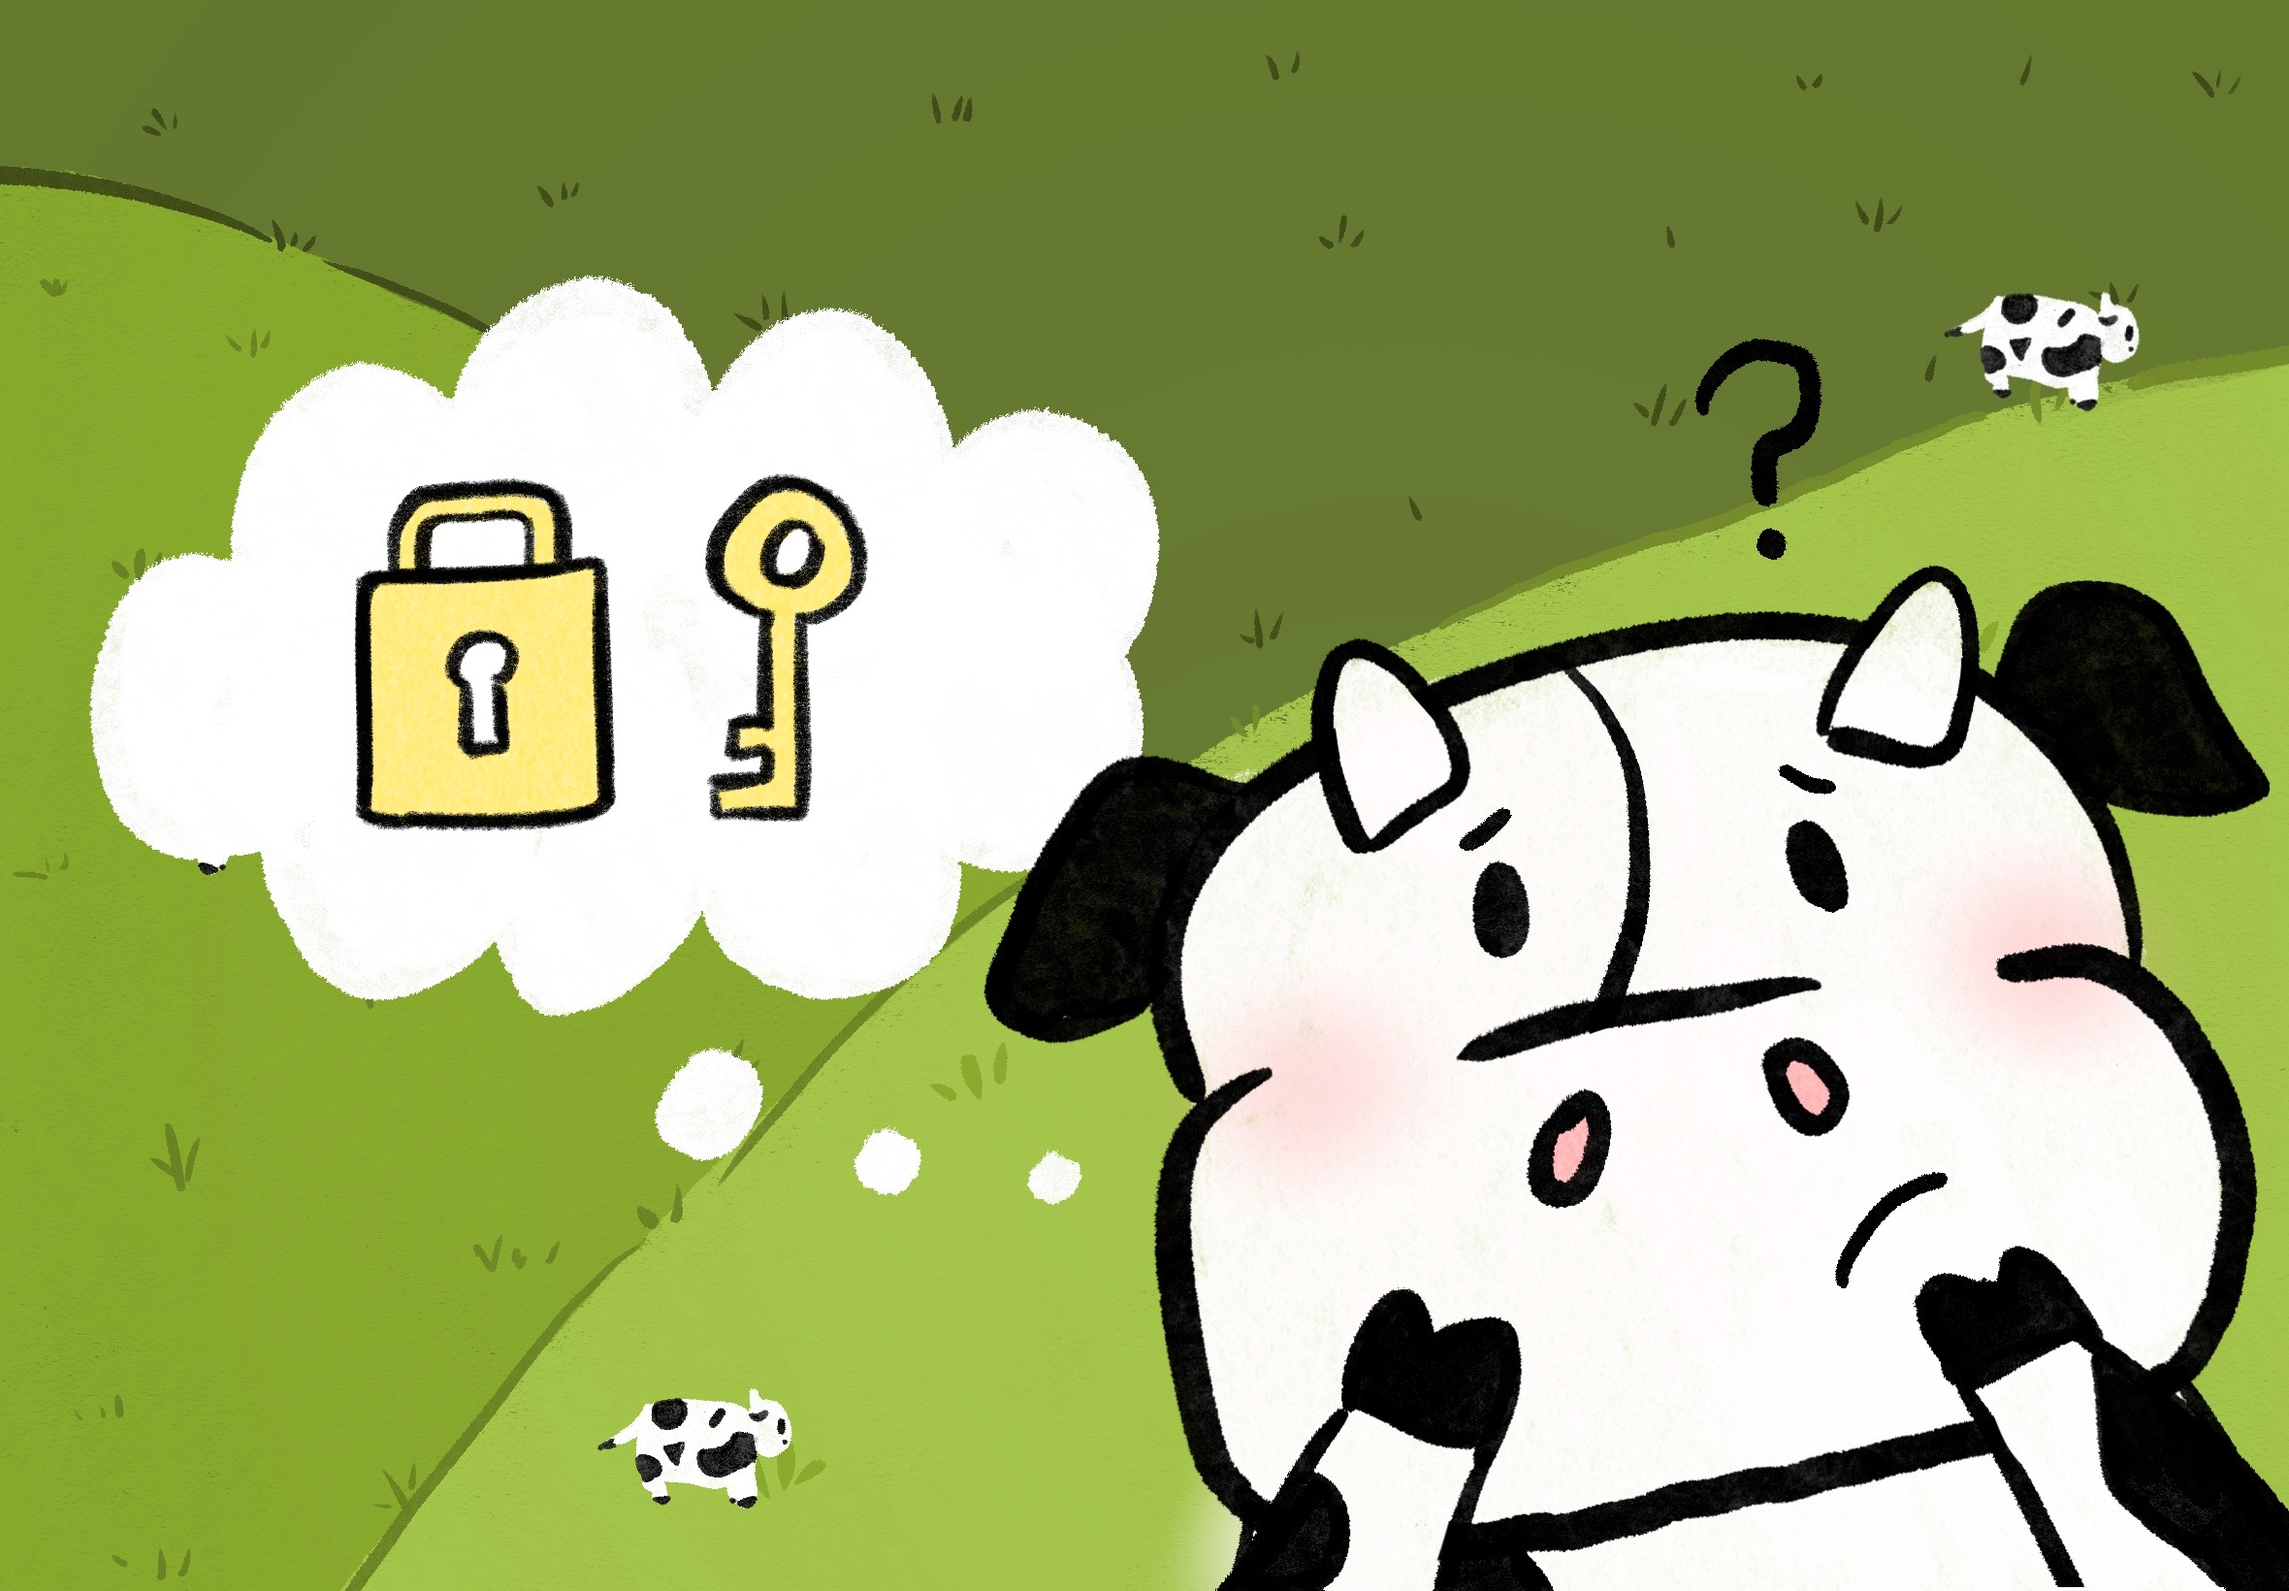
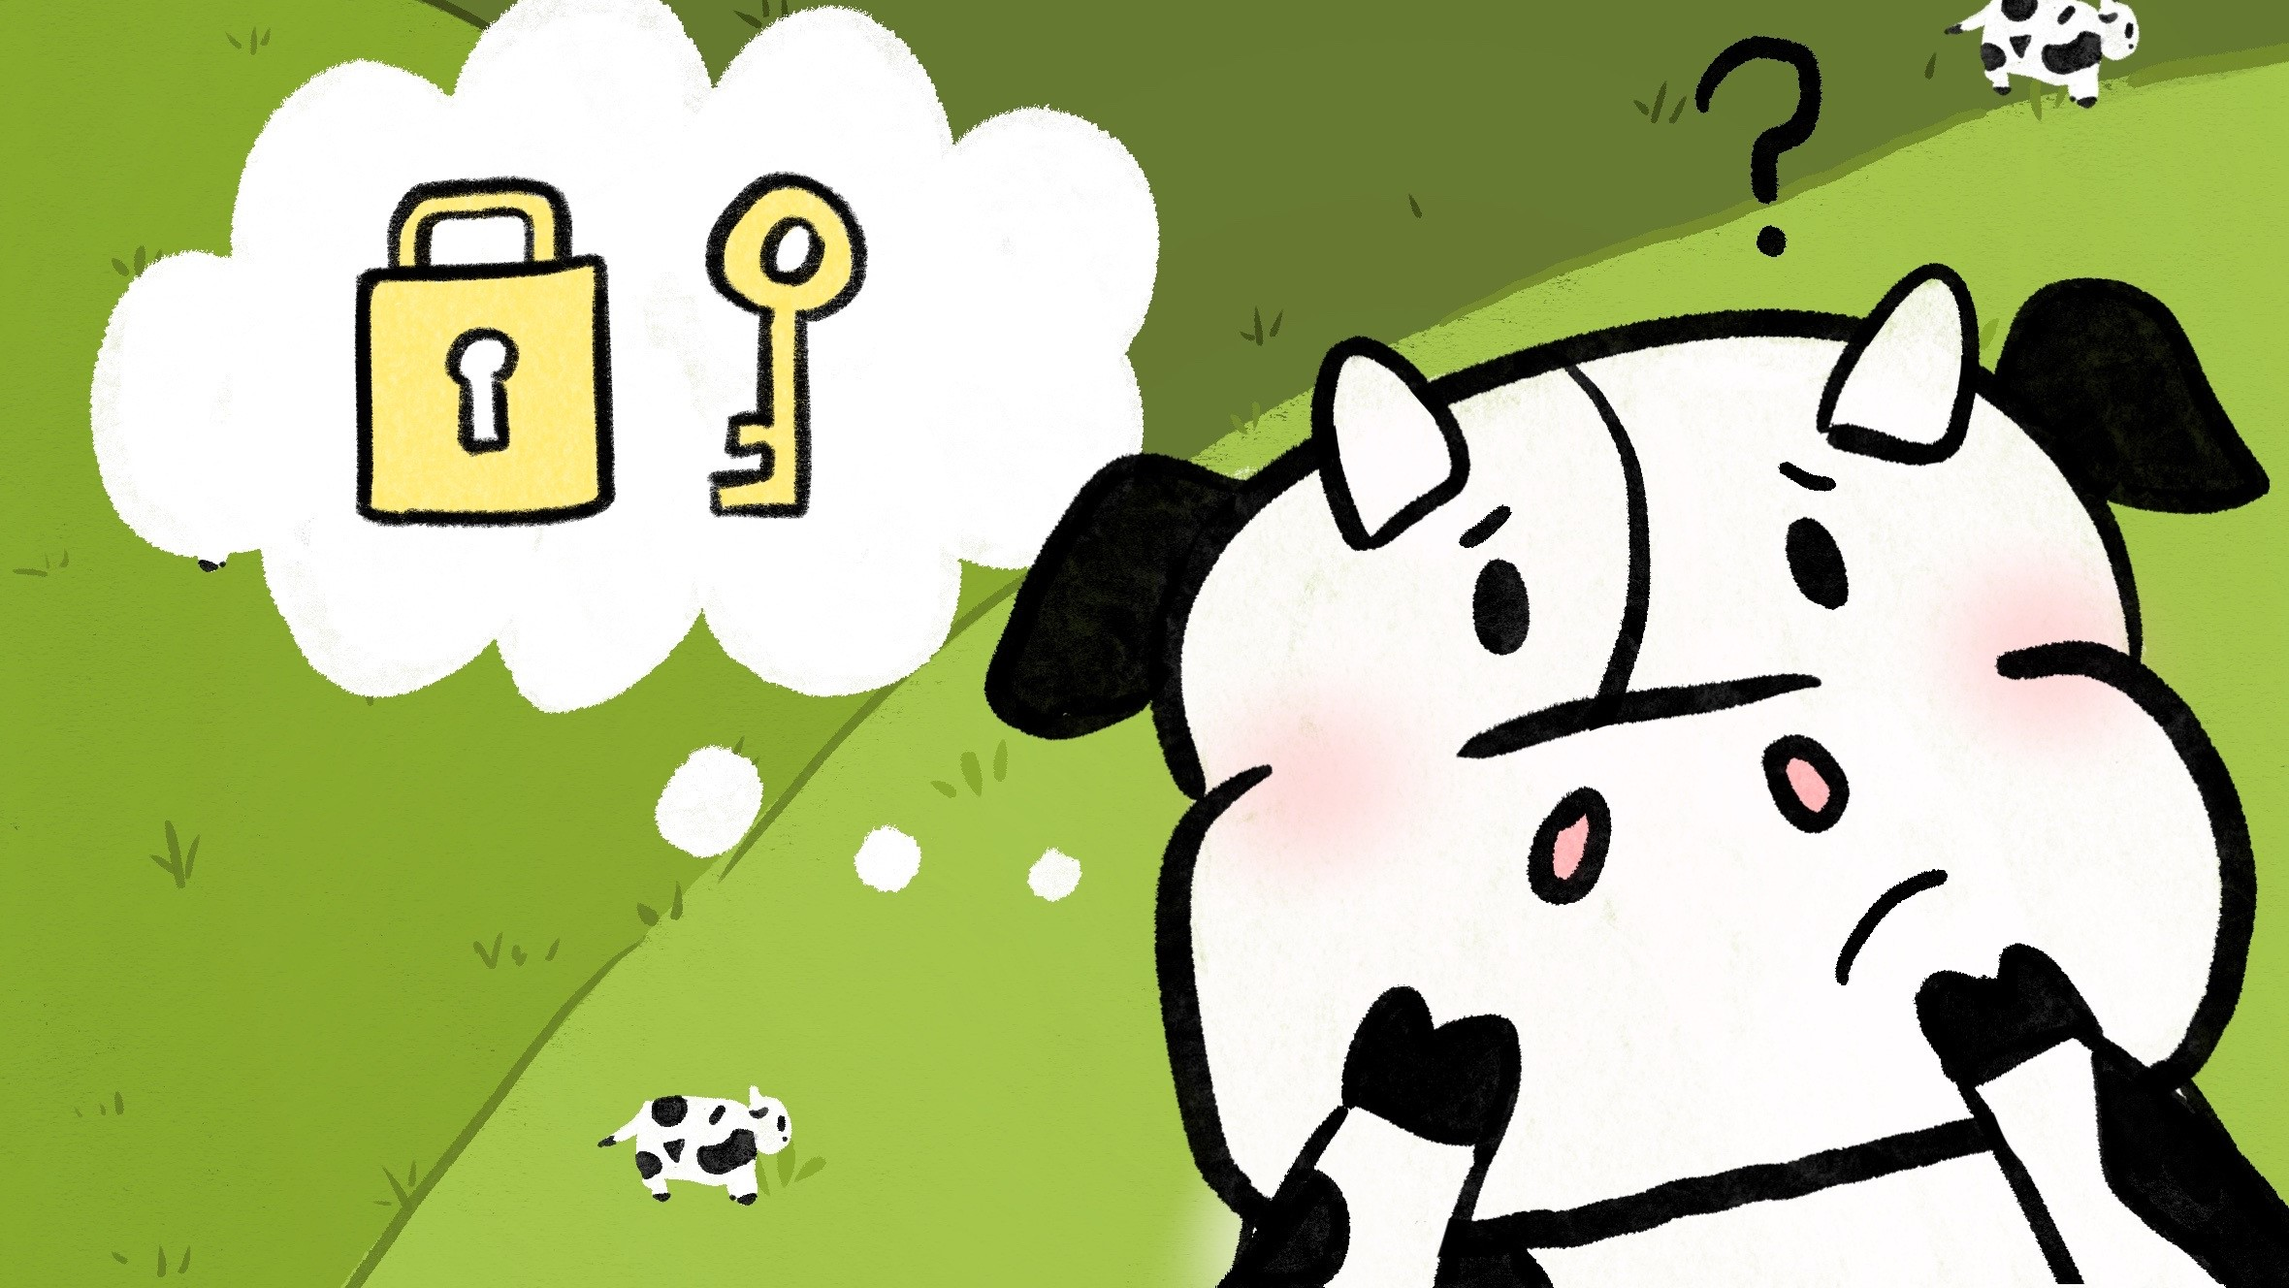
feat : 註冊ui完善

diff --git a/frontend/src/views/LoginPage.vue b/frontend/src/views/LoginPage.vue
@@ -1,86 +1,84 @@
 <template>
-  <!-- 固定定位的 header，確保圖片維持在最上方 -->
-  <header>
-    <img v-if="!doingPw" src="../images/login.jpg"/>
-    <img v-else  src="../images/password.jpg" />
-  </header>
+  <div class="h-full flex flex-col overflow-hidden"> <!-- 使用 Flexbox 布局 -->
+    <header class=" basis-3/12 overflow-auto"> <!-- 固定高度的 header -->
+      <img v-if="!doingPw" src="../images/login.jpg" class="w-full object-cover" />
+      <img v-else src="../images/password.jpg" class="w-full object-cover" />
+    </header>
 
-  <body class="h-screen overflow-y-auto relative">
-    
-    <form class="flex flex-col justify-center mt-5 text-center">
-    <label class="text-4xl font-bold">Login</label>
-    <div class="flex items-center border-2 rounded-md px-3 ml-10 mr-10 shadow-md mt-4">
-      <PhUser :size="32" color="#4d4d4d" />
-      <input v-model="user.account" class="flex-1 p-3 focus:outline-none" type="text" placeholder="帳號" />
-    </div>
-
-      <!-- 密碼輸入框 -->
-    <div class="flex items-center border-2 rounded-md px-3 ml-10 mr-10 shadow-md mt-4">
-      <PhLockKey :size="32" color="#4d4d4d" />
-      <input
-        v-model="password"  
-        @focus="doingPw = true"  
-        @blur="doingPw = false"
-        class="flex-1 p-3 focus:outline-none "
-        :type="showPassword ? 'text' : 'password'"
-        placeholder="密碼"
-      />
-      <PhEyeClosed v-if="!showPassword" @click="togglePassword" :size="32" color="#4d4d4d" />
-      <PhEye v-else @click="togglePassword" :size="32" />
-    </div>
-
-      <div class="mt-5">
-        <label class="flex items-center">
-          <input  type="checkbox" class="mr-2 ml-10 font-H3-regular border-#5A8700 text-#5A8700" /> 保持登入
-        </label>
-      </div>
-
-      <div class="mt-5 mx-10">
-        <button @click="loginHandler(user)" class="w-full bg-[#90c700] text-white font-bold text-2xl py-3 rounded shadow-md" type="button">
-          登入
-        </button>
-      </div>
-
-      <div class="mt-5">
-        <router-link to="/forgot-password" class="text-[#90c700] underline hover:text-[#7ab600]">
-          忘記密碼？
-        </router-link>
-      </div>
-
-      <div class="mt-20">
-        <div class="flex flex-col items-center">
-          <label>其他登入方式</label>
-          <div class="flex justify-center space-x-4 mt-4">
-            <button @click="loginWithGoogle"
-              class="w-12 h-12 rounded-full flex justify-center items-center shadow bg-[#92c700]">
-              <PhGoogleLogo :size="32" color="#fff" />
-            </button>
-            <button @click="loginWithFacebook"
-              class="w-12 h-12 rounded-full flex justify-center items-center shadow bg-[#92c700]">
-              <PhFacebookLogo :size="32" color="#fff" />
-            </button>
-          </div>
+    <main class="flex-grow flex items-center justify-center"> <!-- Flexbox 居中表单 -->
+      <form class="flex flex-col justify-center text-center w-full max-w-sm"> <!-- 限制最大宽度 -->
+        <label class="text-4xl font-bold my-3">Login</label>
+        <div class="flex items-center border-2 rounded-md px-3 my-3 ml-10 mr-10 shadow-md">
+          <PhUser :size="32" color="#4d4d4d" />
+          <input v-model="user.account" class="flex-1 p-3 focus:outline-none" type="text" placeholder="帳號" />
         </div>
 
-        <div class="flex items-center mt-5">
-          <div class="flex-1 border-t"></div>
-          <span class="mx-3">or</span>
-          <div class="flex-1 border-t"></div>
+        <!-- 密碼輸入框 -->
+        <div class="flex items-center border-2 rounded-md px-3 ml-10 my-3 mr-10 shadow-md">
+          <PhLockKey :size="32" color="#4d4d4d" />
+          <input v-model="password" @focus="doingPw = true" @blur="doingPw = false"
+            class="flex-1 p-3 focus:outline-none" :type="showPassword ? 'text' : 'password'" placeholder="密碼" />
+          <PhEyeClosed v-if="!showPassword" @click="togglePassword" :size="32" color="#4d4d4d" />
+          <PhEye v-else @click="togglePassword" :size="32" />
+        </div>
+
+        <div class="mt-5 mx-10 flex items-center">
+          <PhSquare v-if="!check" @click="checklogin" :size="20" />
+          <PhCheckSquare v-else @click="checklogin" :size="20" />
+          <span class="ml-2">保持登入</span>
+        </div>
+
+        <div class="mt-5 mx-10">
+          <button @click="loginHandler(user)"
+            class="w-full bg-[#90c700] text-white font-bold text-2xl py-3 rounded shadow-md" type="button">
+            登入
+          </button>
         </div>
 
         <div class="mt-5">
-          <router-link to="/register" class="text-[#90c700] underline hover:text-[#7ab600]">
-            創建帳號
+          <router-link to="/forgot-password" class="text-[#90c700] underline hover:text-[#7ab600]">
+            忘記密碼？
           </router-link>
         </div>
-      </div>
-    </form>
-  </body>
+
+        <div class="mt-20">
+          <div class="flex flex-col items-center">
+            <label>其他登入方式</label>
+            <div class="flex justify-center space-x-4 mt-4">
+              <button @click="loginWithGoogle"
+                class="w-12 h-12 rounded-full flex justify-center items-center shadow bg-[#92c700]">
+                <PhGoogleLogo :size="32" color="#fff" />
+              </button>
+              <button @click="loginWithFacebook"
+                class="w-12 h-12 rounded-full flex justify-center items-center shadow bg-[#92c700]">
+                <PhFacebookLogo :size="32" color="#fff" />
+              </button>
+            </div>
+          </div>
+
+          <div class="flex items-center mt-5">
+            <div class="flex-1 border-t"></div>
+            <span class="mx-3">or</span>
+            <div class="flex-1 border-t"></div>
+          </div>
+
+          <div class="mb-5">
+            <router-link to="/register" class="text-[#90c700] underline hover:text-[#7ab600]">
+              創建帳號
+            </router-link>
+          </div>
+        </div>
+      </form>
+    </main>
+  </div>
 </template>
+
+
 
 <script setup lang="ts">
 import request from "@/axios";
 import { User } from "@/model/user";
+import router from "@/router";
 import {
   PhEyeClosed,
   PhFacebookLogo,
@@ -88,17 +86,21 @@ import {
   PhLockKey,
   PhUser,
   PhEye,
+  PhSquare,
+  PhCheckSquare,
 } from "@phosphor-icons/vue";
 import { ref } from "vue";
 class form {
-  account: string="";
-  password: string="";
+  account: string = "";
+  password: string = "";
 }
 const user = ref<form>(new form());
 
-const loginHandler = async (user:form) => {
-   const result = await request.post("users/doLogin",JSON.stringify(user))
-   localStorage.setItem(result.data.tokenName,result.data.tokenValue)
+const loginHandler = async (user: form) => {
+  const result = await request.post("users/doLogin", JSON.stringify(user))
+  localStorage.setItem(result.data.tokenName, result.data.tokenValue)
+  router.push("/home")
+
 }
 
 function loginWithFacebook() {
@@ -116,6 +118,11 @@ const doingPw = ref(false); // 用于指示是否处于密码输入状态
 const showPassword = ref(false);
 const togglePassword = () => {
   showPassword.value = !showPassword.value; // 切换 showPassword 的值
+}
+
+const check = ref(false);
+const checklogin = () => {
+  check.value = !check.value;
 }
 
 </script>

diff --git a/frontend/src/views/RegisterPage.vue b/frontend/src/views/RegisterPage.vue
@@ -1,56 +1,60 @@
 <template>
-  <!-- 固定定位的 header，確保圖片維持在最上方 -->
-  <header>
-    <img src="/login.jpg" class="w-full" />
-  </header>
+  <div class="h-full flex flex-col overflow-hidden">
+    <header class=" basis-3/12 overflow-auto"> <!-- 固定高度的 header -->
+      <img v-if="!doingPw" src="../images/login.jpg" class="w-full object-cover" />
+      <img v-else src="../images/password.jpg" class="w-full object-cover" />
+    </header>
 
-  <body>
-    <form class="flex flex-col justify-center mt-5 text-center">
-      <label class="text-3xl font-bold">Registar</label>
-      <div class="flex items-center border-2 rounded-md px-3 mx-10 shadow-md mt-4">
-        <PhUser :size="32" color="#4d4d4d" />
-        <input v-model="user.account" class="flex-1 p-2 focus:outline-none" type="text" placeholder="帳號" />
-      </div>
-      <div class="flex items-center border-2 rounded-md px-3 mx-10 shadow-md mt-4">
-        <PhLockKey :size="32" color="#4d4d4d" />
-        <input v-model="user.password" class="flex-1 p-2 focus:outline-none" type="password" placeholder="密碼" />
-        <PhEyeClosed :size="32" color="#4d4d4d" />
-      </div>
-      <div class="flex items-center border-2 rounded-md px-3 mx-10 shadow-md mt-4">
-        <PhEnvelopeSimple :size="32" color="#4d4d4d" />
-        <input v-model="user.email" class="flex-1 p-2 focus:outline-none" type="email" placeholder="信箱" />
-      </div>
+    <main class="flex-grow flex-col flex items-center"> <!-- Flexbox 居中表单 -->
+      <form class="flex flex-col justify-center text-center w-full max-w-sm"> <!-- 限制最大宽度 -->
+        <label class="text-4xl font-bold my-3">Register</label>
+        <div class="flex items-center border-2 rounded-md px-3 my-3 ml-10 mr-10 shadow-md">
+          <PhUser :size="32" color="#4d4d4d" />
+          <input v-model="user.account" class="flex-1 p-3 focus:outline-none" type="text" placeholder="帳號" />
+        </div>
+        <!-- 密碼輸入框 -->
+        <div class="flex items-center border-2 rounded-md px-3 ml-10 my-3 mr-10 shadow-md">
+          <PhLockKey :size="32" color="#4d4d4d" />
+          <input v-model="password" @focus="doingPw = true" @blur="doingPw = false"
+            class="flex-1 p-3 focus:outline-none" :type="showPassword ? 'text' : 'password'" placeholder="密碼" />
+          <PhEyeClosed v-if="!showPassword" @click="togglePassword" :size="32" color="#4d4d4d" />
+          <PhEye v-else @click="togglePassword" :size="32" />
+        </div>
+        <div class="flex items-center border-2 rounded-md px-3 ml-10 my-3 mr-10 shadow-md">
+          <PhEnvelopeSimple :size="32" color="#4d4d4d" />
+          <input v-model="user.email" class="flex-1 p-3 focus:outline-none" type="email" placeholder="信箱" />
+        </div>
 
-      <div class="mt-5">
-        <label class="flex items-center">
-          <input type="checkbox" class="mr-2 ml-10" /> 保持登入
-        </label>
-      </div>
+        <div class="mt-5 mx-10 flex items-center">
+          <PhSquare v-if="!check" @click="checklogin" :size="20" />
+          <PhCheckSquare v-else @click="checklogin" :size="20" />
+          <span class="ml-2">保持登入</span>
+        </div>
 
-      <div class="mt-5 mx-10">
-        <router-link to="/verify">
-          <button @click="registerHandler(user)"
-            class="w-full bg-[#90c700] text-white font-bold text-2xl py-3 rounded shadow-md" type="button">
-            創建
-          </button></router-link>
-      </div>
-
-      <div class="loginbottom inset-x-0 fixed bottom-5">
-        <div class="flex flex-col items-center">
-          <div class="flex items-center mt-5">
+        <div class="mt-5 mx-10">
+          <router-link to="/verify">
+            <button @click="registerHandler(user)"
+              class="w-full bg-[#90c700] text-white font-bold text-2xl py-3 rounded shadow-md" type="button">
+              創建
+            </button></router-link>
+        </div>
+        <div class="  ">
+          <div class="flex items-center mt-44">
             <div class="flex-1 border-t"></div>
             <span class="mx-3">or</span>
             <div class="flex-1 border-t"></div>
           </div>
-          <div class="mt-5">
+          <div class="mb-5">
             <router-link to="/login" class="text-[#90c700] underline hover:text-[#7ab600]">
               登入
             </router-link>
           </div>
         </div>
-      </div>
-    </form>
-  </body>
+
+      </form>
+    </main>
+  </div>
+
 </template>
 
 <script setup lang="ts">
@@ -60,6 +64,9 @@ import {
   PhEyeClosed,
   PhLockKey,
   PhUser,
+  PhEye,
+  PhSquare,
+  PhCheckSquare,
 } from "@phosphor-icons/vue";
 import { ref } from "vue";
 
@@ -73,7 +80,7 @@ const user = ref<form>(new form());
 const registerHandler = async (user: form) => {
   const json = JSON.stringify(user);
   const result = await request.post("/users/register", json)
-  localStorage.setItem("s",result.data)
+  localStorage.setItem("s", result.data)
 
 }
 
@@ -83,4 +90,20 @@ function loginWithFacebook() {
 function loginWithGoogle() {
   // 呼叫 Google 登入 API 的程式邏輯
 }
+
+//圖片更動
+const password = ref("");  // 用于存储密码
+const doingPw = ref(false); // 用于指示是否处于密码输入状态
+
+//點眼睛密碼明文顯示
+const showPassword = ref(false);
+const togglePassword = () => {
+  showPassword.value = !showPassword.value; // 切换 showPassword 的值
+}
+
+const check = ref(false);
+const checklogin = () => {
+  check.value = !check.value;
+}
+
 </script>

diff --git a/frontend/src/views/SettingsPage.vue b/frontend/src/views/SettingsPage.vue
@@ -1,5 +1,6 @@
 <template>
   <div>
+    <router-link to="/login" class="flex flex-col text-2xl items-center text-center">w</router-link>
   </div>
 </template>
 
